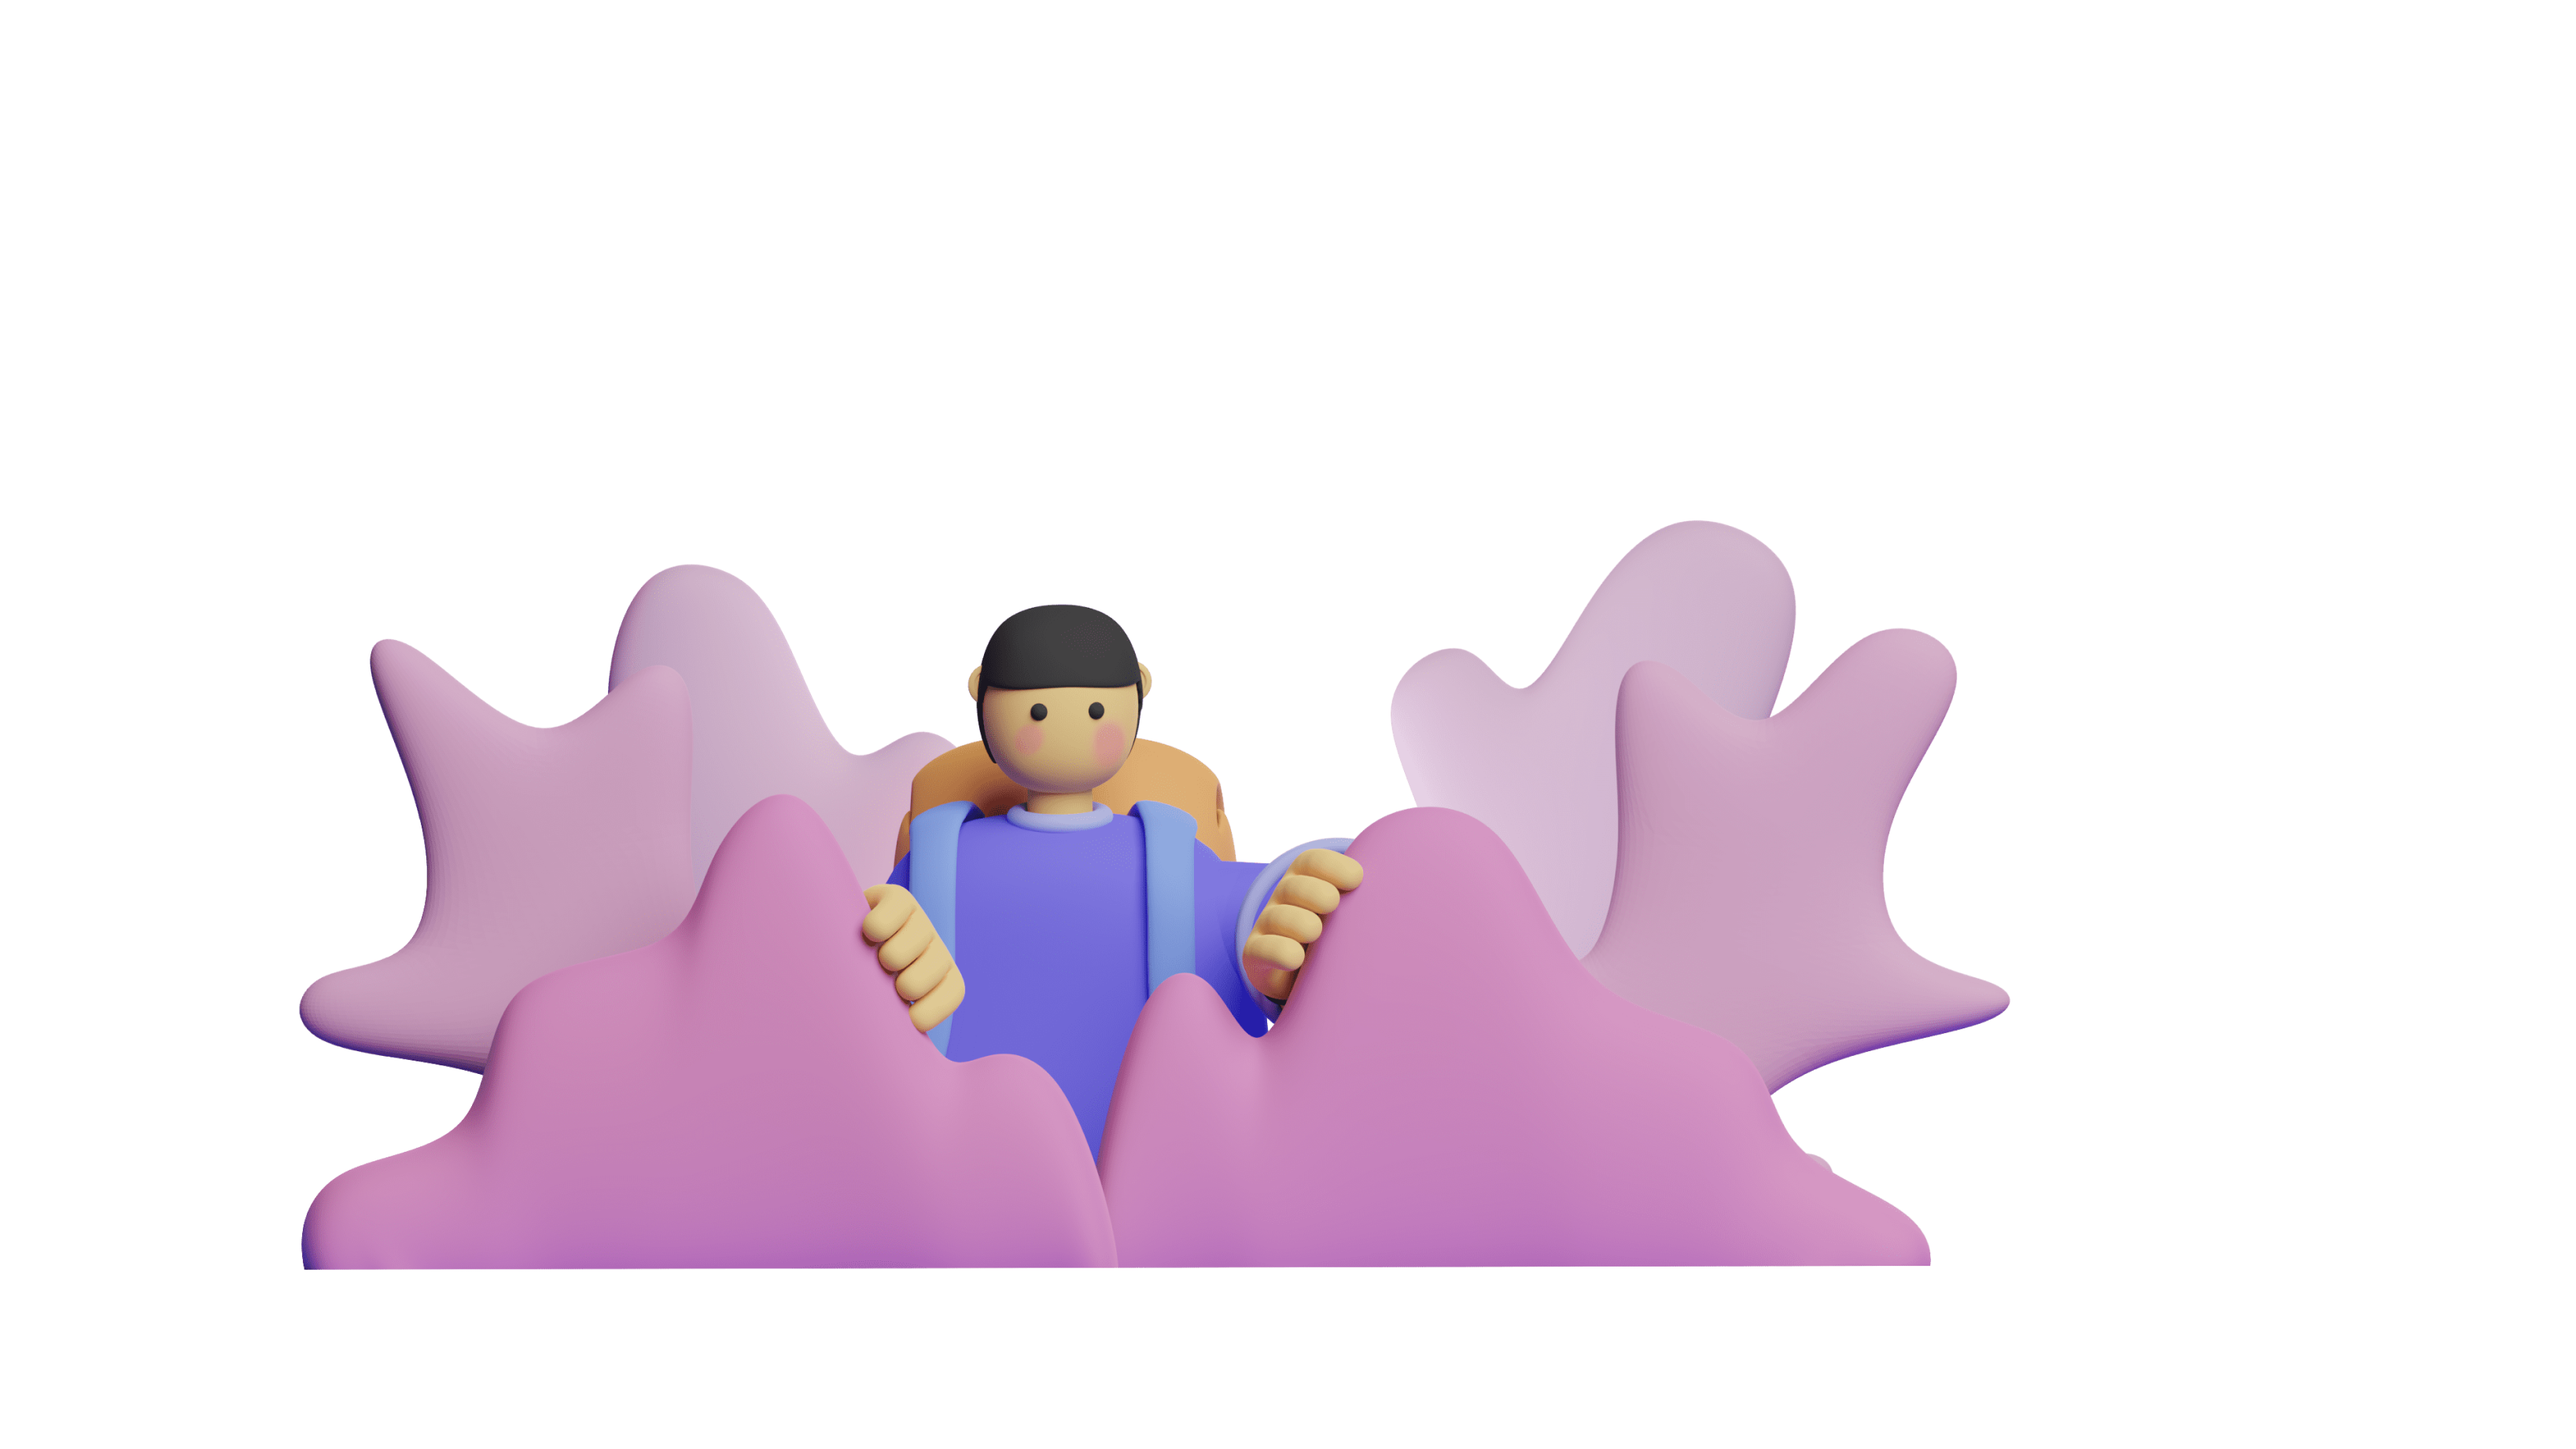
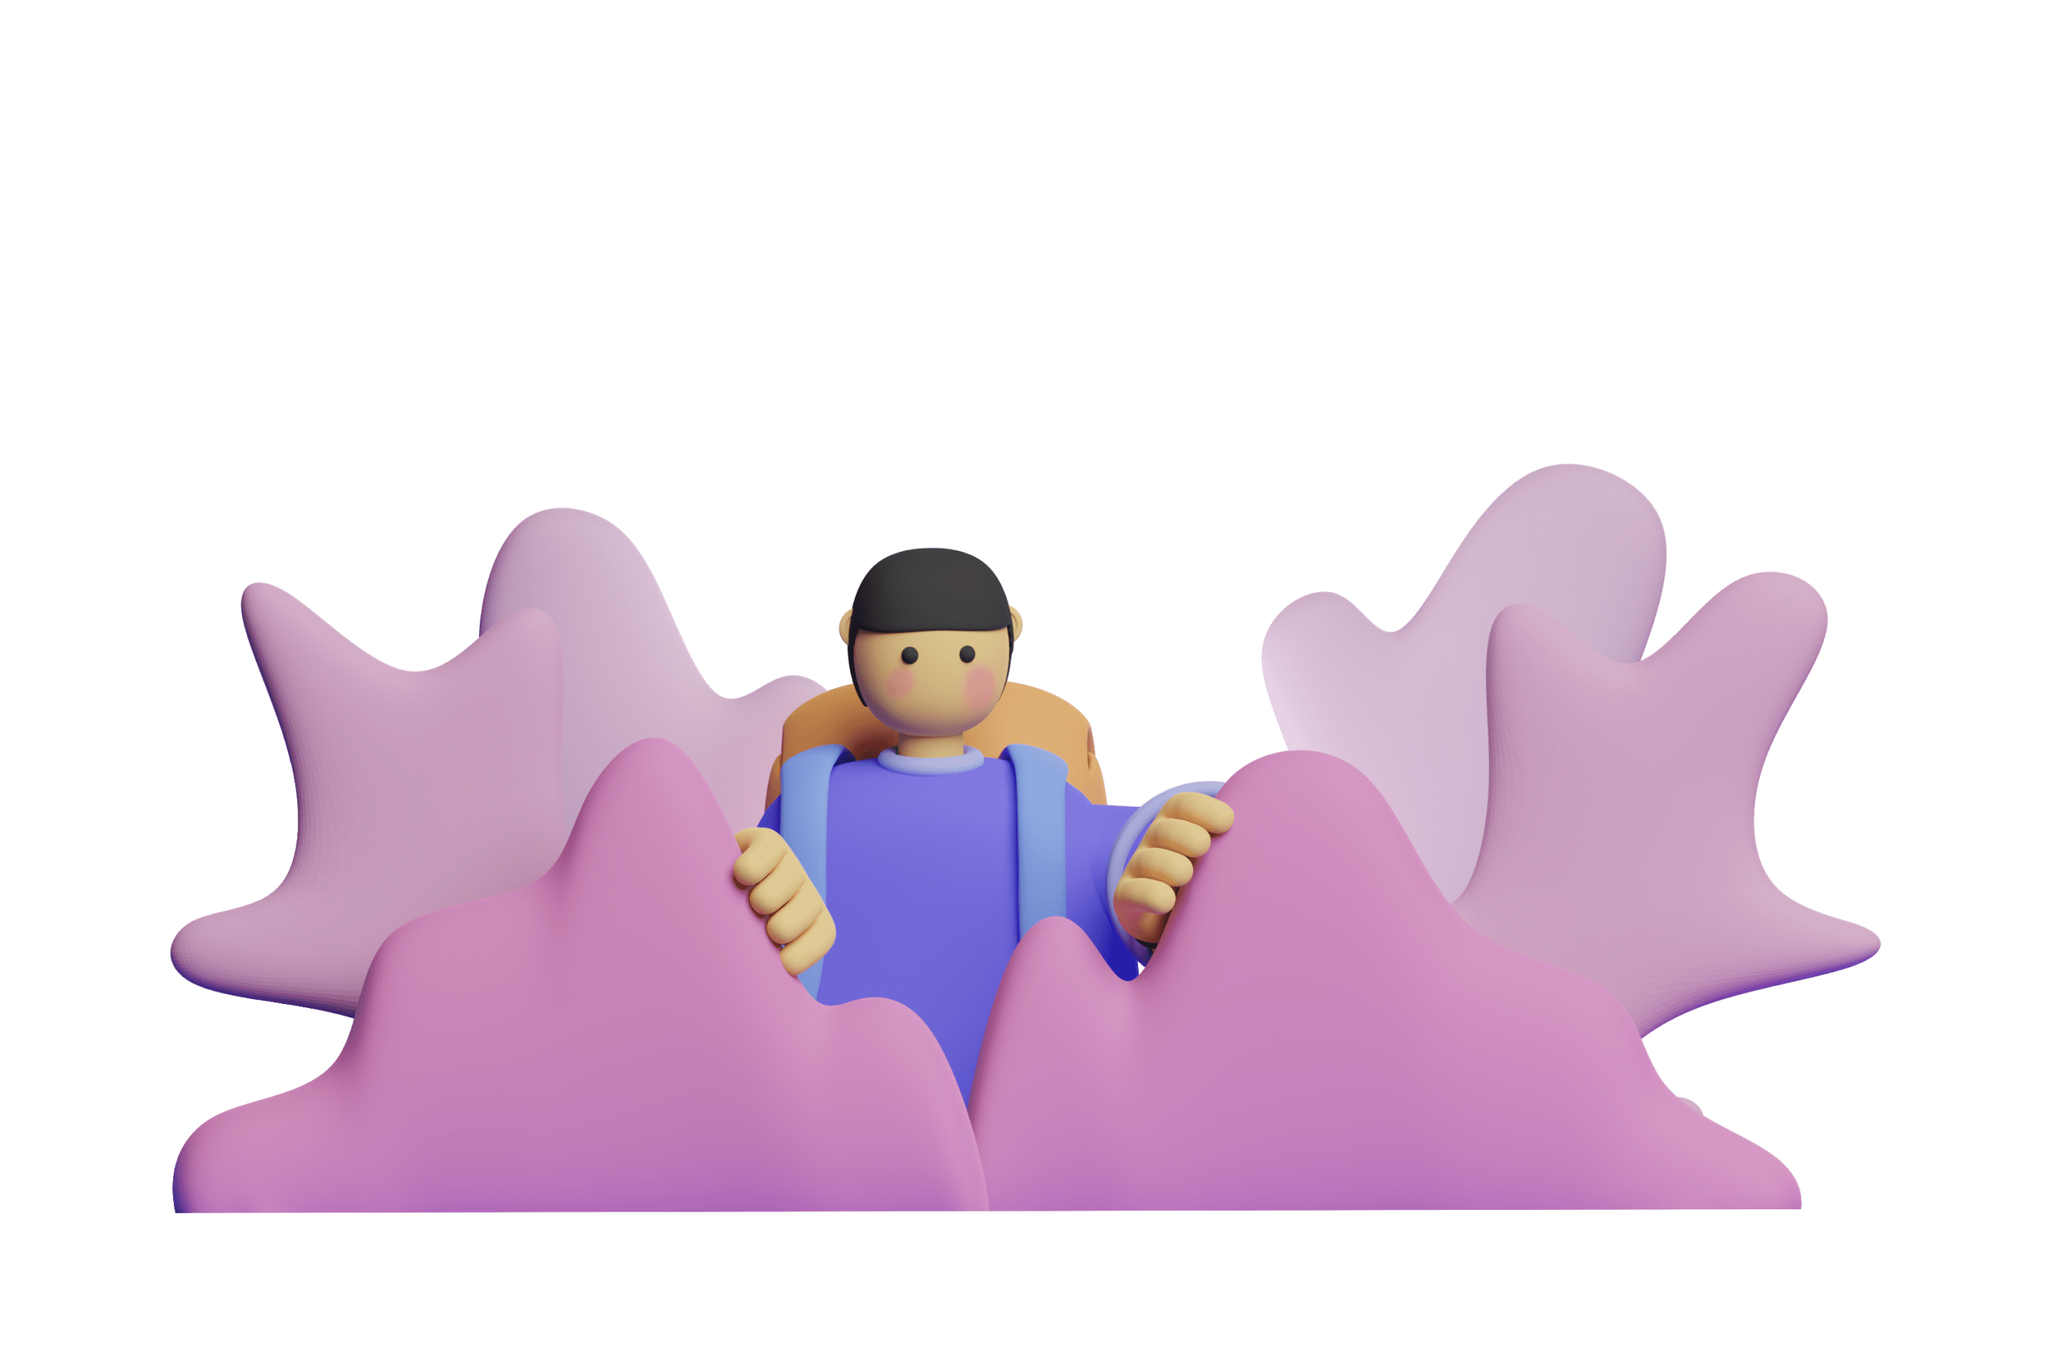
pretty shows menu

Changed region(s): [[0.0622, 0.3414, 0.9332, 0.9]]

diff --git a/htn_tomato/lib/shows.dart b/htn_tomato/lib/shows.dart
@@ -52,12 +52,14 @@ class _ShowSetupState extends State<ShowSetupPage> {
   Widget _gridItemBuilder(BuildContext context, int index) {
     var show = shows[index];
     return TextButton(
-        child: Image.network(show["img"]),
+        child: ClipRRect(
+            borderRadius: BorderRadius.circular(15),
+            child: Image.network(show["img"])),
         onPressed: () async {
-
           await Firebase.initializeApp();
           String uid = FirebaseAuth.instance.currentUser.uid;
-          CollectionReference users = FirebaseFirestore.instance.collection('users');
+          CollectionReference users =
+              FirebaseFirestore.instance.collection('users');
           users.doc(uid).update({"show": show});
 
           Navigator.push(
@@ -77,35 +79,49 @@ class _ShowSetupState extends State<ShowSetupPage> {
     // than having to individually change instances of widgets.
     return Scaffold(
       body: Center(
-        child: Column(
-          mainAxisAlignment: MainAxisAlignment.center,
-          children: <Widget>[
-            Padding(
-              padding: EdgeInsets.fromLTRB(0, 80, 0, 0),
-              child: Text(
-                'Search for a Netflix show to watch',
-              )
+        child: Stack(
+          children: [
+            Container(
+              decoration: BoxDecoration(
+                  gradient: LinearGradient(
+                      begin: Alignment(0.4, -1),
+                      end: Alignment(-0.4, 1),
+                      colors: [Color(0xFF1D1D42), Color(0xFF7A77F4)])),
             ),
-            Padding(
-              padding: const EdgeInsets.fromLTRB(40, 0, 40, 0),
-              child: TextField(
-                  controller: _controller,
-                  onSubmitted: (String title) async {
-                    _searchShowTitle(title);
-                  }),
-            ),
-            Expanded(
-              child: GridView.builder(
-                itemCount: shows.length,
-                itemBuilder: _gridItemBuilder,
-                gridDelegate: SliverGridDelegateWithFixedCrossAxisCount(
-                  childAspectRatio: 166 / 233,
-                  crossAxisCount: 3,
-                  crossAxisSpacing: 0,
+            Container(
+                alignment: Alignment(0, 1),
+                child: Transform.scale(
+                    scale: 1.5, child: Image.asset("assets/Saly-17.png"))),
+            Column(
+              mainAxisAlignment: MainAxisAlignment.center,
+              children: <Widget>[
+                Padding(
+                    padding: EdgeInsets.fromLTRB(0, 80, 0, 0),
+                    child: Text(
+                      'Search for a Netflix show to watch',
+                    )),
+                Padding(
+                  padding: const EdgeInsets.fromLTRB(40, 0, 40, 0),
+                  child: TextField(
+                      controller: _controller,
+                      onSubmitted: (String title) async {
+                        _searchShowTitle(title);
+                      }),
                 ),
-                shrinkWrap: true,
-              ),
-            )
+                Expanded(
+                  child: GridView.builder(
+                    itemCount: shows.length,
+                    itemBuilder: _gridItemBuilder,
+                    gridDelegate: SliverGridDelegateWithFixedCrossAxisCount(
+                      childAspectRatio: 166 / 233,
+                      crossAxisCount: 3,
+                      crossAxisSpacing: 0,
+                    ),
+                    shrinkWrap: true,
+                  ),
+                )
+              ],
+            ),
           ],
         ),
       ),

diff --git a/htn_tomato/lib/confirmation.dart b/htn_tomato/lib/confirmation.dart
@@ -9,30 +9,42 @@ class ConfirmationPage extends StatelessWidget {
 
     return Scaffold(
         body: Center(
-            child: Column(
+            child: Stack(
+          children: [
+            Container(
+                alignment: Alignment(0, -0.5),
+                child: Image.asset("assets/Ellipse_10.png")),
+            Image.asset("assets/Saly-1.png"),
+            Column(
                 mainAxisAlignment: MainAxisAlignment.center,
                 children: <Widget>[
-              Padding(
-                  padding: EdgeInsets.fromLTRB(40, 0, 40, 0),
-                  child: Text(
-                    "Check your inbox for a confirmation email!",
-                    textAlign: TextAlign.center,
-                    style: localTheme.textTheme.headline2,
-                  )),
-              Padding(
-                  padding: EdgeInsets.all(16.0),
-                  child: Text(
-                    "Let's start setting your goals.",
-                    textAlign: TextAlign.center,
-                    style: localTheme.textTheme.bodyText2,
-                  )),
-              FlatButton(
-                onPressed: () async {
-                  verifyEmail();
-                },
-                child: Text("Resend Verification Email"),
-              )
-            ])),
+                  Padding(
+                      padding: EdgeInsets.fromLTRB(
+                          MediaQuery.of(context).size.width * 0.2,
+                          MediaQuery.of(context).size.height * 0.45,
+                          MediaQuery.of(context).size.width * 0.2,
+                          0),
+                      child: Text(
+                        "Check your inbox for a confirmation email!",
+                        textAlign: TextAlign.center,
+                        style: localTheme.textTheme.headline2,
+                      )),
+                  Padding(
+                      padding: EdgeInsets.all(16.0),
+                      child: Text(
+                        "Let's start setting your goals.",
+                        textAlign: TextAlign.center,
+                        style: localTheme.textTheme.bodyText2,
+                      )),
+                  FlatButton(
+                    onPressed: () async {
+                      verifyEmail();
+                    },
+                    child: Text("Resend Verification Email"),
+                  )
+                ]),
+          ],
+        )),
         floatingActionButton: FloatingActionButton(
           onPressed: () async {
             bool verified = await emailVerified();
@@ -43,7 +55,7 @@ class ConfirmationPage extends StatelessWidget {
               );
             }
           },
-          child: Icon(Icons.arrow_forward),
+          child: Icon(Icons.arrow_forward, color: Colors.white),
         ));
   }
 }

diff --git a/htn_tomato/lib/loginsystem.dart b/htn_tomato/lib/loginsystem.dart
@@ -25,7 +25,11 @@ class _LoginScreenState extends State<LoginScreen> {
             Column(
               children: [
                 Padding(
-                  padding: const EdgeInsets.fromLTRB(50, 200, 0, 0),
+                  padding: EdgeInsets.fromLTRB(
+                      MediaQuery.of(context).size.width * 0.2,
+                      MediaQuery.of(context).size.width * 0.55,
+                      0,
+                      0),
                   child: Image.asset("assets/Saly-16.png"),
                 ),
                 FlatButton(
